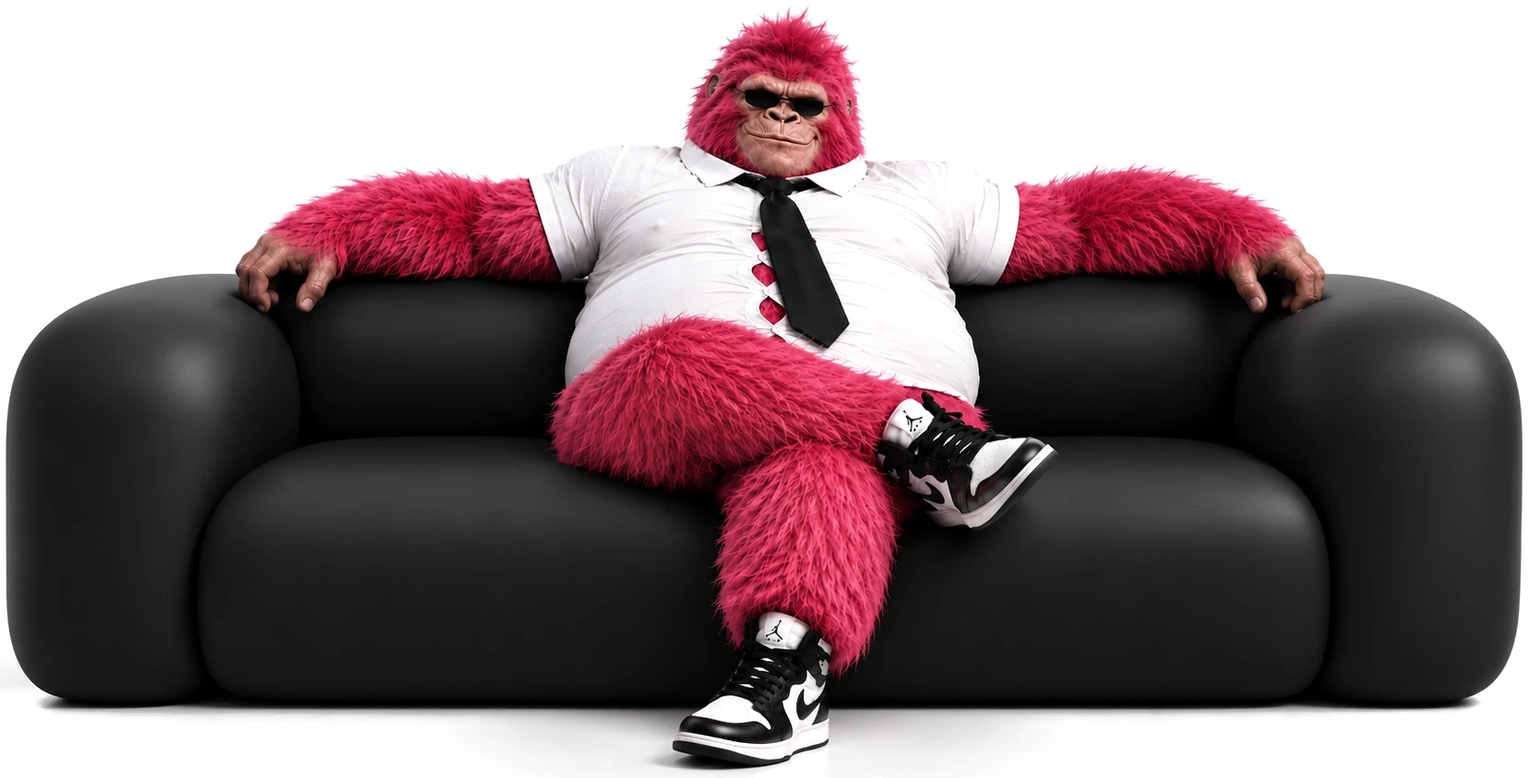
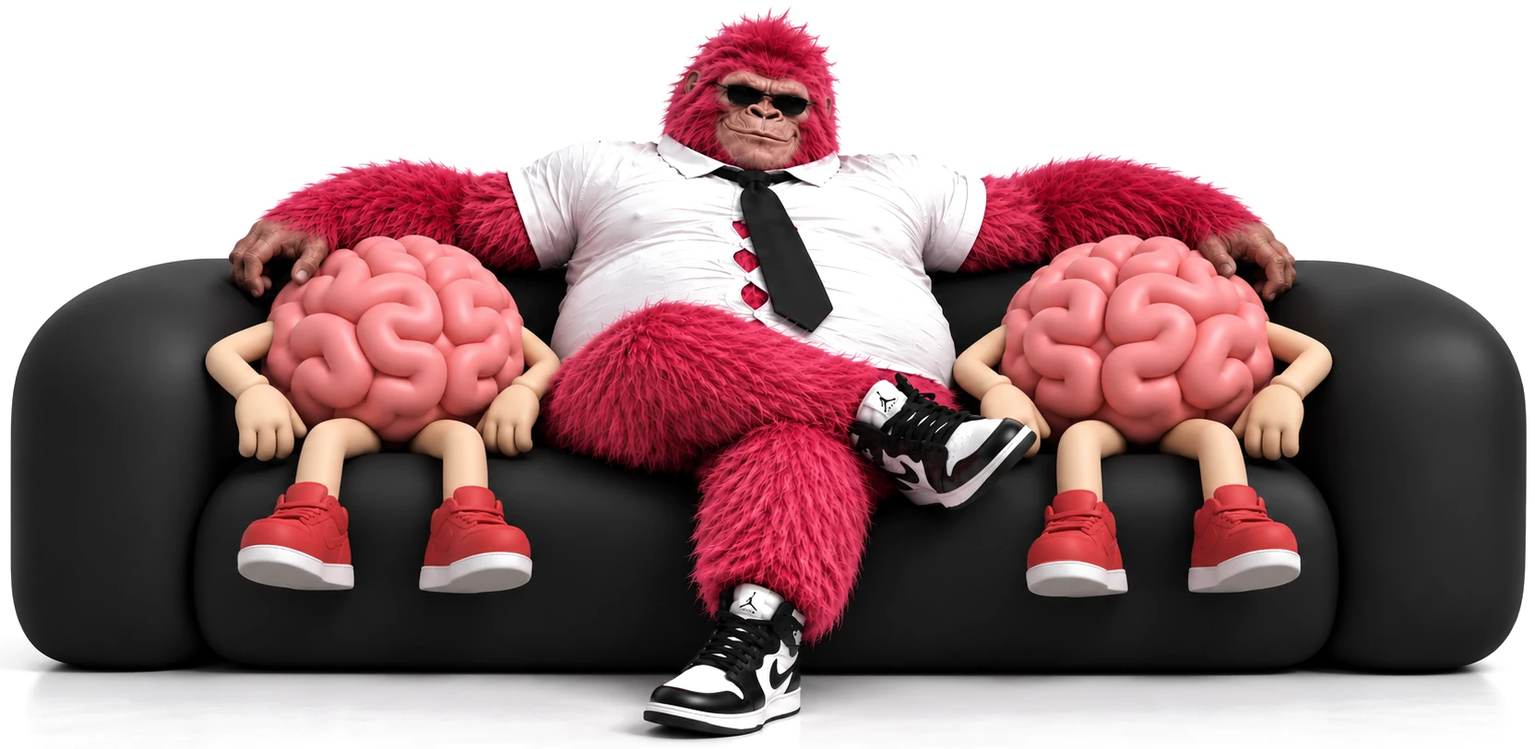
Replace hero gorilla image
Claude-Session: https://claude.ai/code/session_011twCvYJ4NH4k7nHz3phw9g

diff --git a/dist/ta/index.html b/dist/ta/index.html
@@ -120,7 +120,7 @@ a{color:inherit}
 .banner{--gap:var(--m);--colw:calc((100cqw - var(--gap)) / 2);display:grid;grid-template-columns:var(--colw) var(--colw);column-gap:var(--gap);row-gap:var(--gap);align-items:end}
 .word{grid-column:1;grid-row:1;width:100%;aspect-ratio:1001 / 554;background:var(--img-roborab) center / 100% 100% no-repeat}
 html:not([lang=ru]) .word{aspect-ratio:1001 / 512;background-image:var(--img-roborab-en)}
-.sofa{grid-column:2;grid-row:1;width:100%;aspect-ratio:1656 / 844;background:var(--img-sofa) center / 100% 100% no-repeat}
+.sofa{grid-column:2;grid-row:1;width:100%;aspect-ratio:1664 / 812;background:var(--img-sofa) center / 100% 100% no-repeat}
 @supports (text-box:trim-both cap alphabetic){.tb .hero .ht{text-box:trim-both cap alphabetic}@media(max-width:760px),(orientation:portrait) and (max-width:1100px){.tb .hero .ht{text-box:none}.tb .hero .ht .ml{text-box:trim-both cap alphabetic}}}
 @media(max-width:760px),(orientation:portrait) and (max-width:1100px){
   .banner{display:contents;transform:none}
@@ -338,7 +338,7 @@ textarea{min-height:96px;resize:vertical}
     <p class="ht ht2" aria-hidden="true" data-fit="" data-i18n="top" style=""><span class="d"><span class="ml">செயற்கை நுண்ணறிவை</span></span><br><span class="ml">செயல்படுத்துகிறோம்</span></p>
     <div class="banner" style="">
       <div class="word" role="img" aria-label="ROBORAB"></div>
-      <div class="sofa" role="img" aria-label="சட்டையும் டையும் அணிந்த இளஞ்சிவப்பு கொரில்லா கருப்பு தோல் சோபாவில் அமர்ந்திருக்கிறது"></div>
+      <div class="sofa" role="img" aria-label="Розовая горилла в рубашке и галстуке сидит на чёрном диване между двумя мозгами в кроссовках"></div>
     </div>
     <p class="ht" aria-hidden="true" data-fit="" data-i18n="bot" style=""><span class="d"><span class="ml">வணிக செயல்முறைகளில்</span></span></p>
     <a class="down" href="#paths" aria-label="நாங்கள் எப்படி செயல்படுத்துகிறோம், கீழே உருட்டவும்"><span>நாங்கள் எப்படி செயல்படுத்துகிறோம்</span><svg viewBox="0 0 24 24"><path d="m6 9 6 6 6-6"></path></svg></a>

diff --git a/dist/hi/index.html b/dist/hi/index.html
@@ -120,7 +120,7 @@ a{color:inherit}
 .banner{--gap:var(--m);--colw:calc((100cqw - var(--gap)) / 2);display:grid;grid-template-columns:var(--colw) var(--colw);column-gap:var(--gap);row-gap:var(--gap);align-items:end}
 .word{grid-column:1;grid-row:1;width:100%;aspect-ratio:1001 / 554;background:var(--img-roborab) center / 100% 100% no-repeat}
 html:not([lang=ru]) .word{aspect-ratio:1001 / 512;background-image:var(--img-roborab-en)}
-.sofa{grid-column:2;grid-row:1;width:100%;aspect-ratio:1656 / 844;background:var(--img-sofa) center / 100% 100% no-repeat}
+.sofa{grid-column:2;grid-row:1;width:100%;aspect-ratio:1664 / 812;background:var(--img-sofa) center / 100% 100% no-repeat}
 @supports (text-box:trim-both cap alphabetic){.tb .hero .ht{text-box:trim-both cap alphabetic}@media(max-width:760px),(orientation:portrait) and (max-width:1100px){.tb .hero .ht{text-box:none}.tb .hero .ht .ml{text-box:trim-both cap alphabetic}}}
 @media(max-width:760px),(orientation:portrait) and (max-width:1100px){
   .banner{display:contents;transform:none}
@@ -338,7 +338,7 @@ textarea{min-height:96px;resize:vertical}
     <p class="ht ht2" aria-hidden="true" data-fit="" data-i18n="top" style=""><span class="d"><span class="ml">कृत्रिम बुद्धिमत्ता को</span> <span class="ml">आपके व्यावसायिक</span></span><br><span class="ml">कार्यों में लागू करें</span></p>
     <div class="banner" style="">
       <div class="word" role="img" aria-label="ROBORAB"></div>
-      <div class="sofa" role="img" aria-label="काले चमड़े के सोफ़े पर कमीज़ और टाई पहने एक गुलाबी गोरिल्ला बैठा है"></div>
+      <div class="sofa" role="img" aria-label="Розовая горилла в рубашке и галстуке сидит на чёрном диване между двумя мозгами в кроссовках"></div>
     </div>
     <p class="ht" aria-hidden="true" data-fit="" data-i18n="bot" style=""><span class="d"><span class="ml">प्रक्रियाओं में एकीकृत करना</span></span></p>
     <a class="down" href="#paths" aria-label="हम इसे कैसे लागू करते हैं, नीचे स्क्रॉल करें"><span>हम इसे कैसे लागू करते हैं</span><svg viewBox="0 0 24 24"><path d="m6 9 6 6 6-6"></path></svg></a>

diff --git a/dist/th/index.html b/dist/th/index.html
@@ -120,7 +120,7 @@ a{color:inherit}
 .banner{--gap:var(--m);--colw:calc((100cqw - var(--gap)) / 2);display:grid;grid-template-columns:var(--colw) var(--colw);column-gap:var(--gap);row-gap:var(--gap);align-items:end}
 .word{grid-column:1;grid-row:1;width:100%;aspect-ratio:1001 / 554;background:var(--img-roborab) center / 100% 100% no-repeat}
 html:not([lang=ru]) .word{aspect-ratio:1001 / 512;background-image:var(--img-roborab-en)}
-.sofa{grid-column:2;grid-row:1;width:100%;aspect-ratio:1656 / 844;background:var(--img-sofa) center / 100% 100% no-repeat}
+.sofa{grid-column:2;grid-row:1;width:100%;aspect-ratio:1664 / 812;background:var(--img-sofa) center / 100% 100% no-repeat}
 @supports (text-box:trim-both cap alphabetic){.tb .hero .ht{text-box:trim-both cap alphabetic}@media(max-width:760px),(orientation:portrait) and (max-width:1100px){.tb .hero .ht{text-box:none}.tb .hero .ht .ml{text-box:trim-both cap alphabetic}}}
 @media(max-width:760px),(orientation:portrait) and (max-width:1100px){
   .banner{display:contents;transform:none}
@@ -338,7 +338,7 @@ textarea{min-height:96px;resize:vertical}
     <p class="ht ht2" aria-hidden="true" data-fit="" data-i18n="top" style=""><span class="d"><span class="ml">นำปัญญาประดิษฐ์</span> <span class="ml">ไปใช้ใน</span></span><br><span class="ml">กระบวนการทางธุรกิจ</span></p>
     <div class="banner" style="">
       <div class="word" role="img" aria-label="ROBORAB"></div>
-      <div class="sofa" role="img" aria-label="กอริลลาสีชมพูสวมเสื้อเชิ้ตและผูกเนคไทนั่งบนโซฟาหนังสีดำ"></div>
+      <div class="sofa" role="img" aria-label="Розовая горилла в рубашке и галстуке сидит на чёрном диване между двумя мозгами в кроссовках"></div>
     </div>
     <p class="ht" aria-hidden="true" data-fit="" data-i18n="bot" style=""><span class="d"><span class="ml">ของคุณอย่างเป็นระบบ</span></span></p>
     <a class="down" href="#paths" aria-label="เรานำไปใช้อย่างไร เลื่อนลงเพื่อดู"><span>เรานำไปใช้อย่างไร</span><svg viewBox="0 0 24 24"><path d="m6 9 6 6 6-6"></path></svg></a>

diff --git a/dist/bn/index.html b/dist/bn/index.html
@@ -120,7 +120,7 @@ a{color:inherit}
 .banner{--gap:var(--m);--colw:calc((100cqw - var(--gap)) / 2);display:grid;grid-template-columns:var(--colw) var(--colw);column-gap:var(--gap);row-gap:var(--gap);align-items:end}
 .word{grid-column:1;grid-row:1;width:100%;aspect-ratio:1001 / 554;background:var(--img-roborab) center / 100% 100% no-repeat}
 html:not([lang=ru]) .word{aspect-ratio:1001 / 512;background-image:var(--img-roborab-en)}
-.sofa{grid-column:2;grid-row:1;width:100%;aspect-ratio:1656 / 844;background:var(--img-sofa) center / 100% 100% no-repeat}
+.sofa{grid-column:2;grid-row:1;width:100%;aspect-ratio:1664 / 812;background:var(--img-sofa) center / 100% 100% no-repeat}
 @supports (text-box:trim-both cap alphabetic){.tb .hero .ht{text-box:trim-both cap alphabetic}@media(max-width:760px),(orientation:portrait) and (max-width:1100px){.tb .hero .ht{text-box:none}.tb .hero .ht .ml{text-box:trim-both cap alphabetic}}}
 @media(max-width:760px),(orientation:portrait) and (max-width:1100px){
   .banner{display:contents;transform:none}
@@ -338,7 +338,7 @@ textarea{min-height:96px;resize:vertical}
     <p class="ht ht2" aria-hidden="true" data-fit="" data-i18n="top" style=""><span class="d"><span class="ml">কৃত্রিম বুদ্ধিমত্তা</span></span><br><span class="ml">প্রয়োগ করি</span></p>
     <div class="banner" style="">
       <div class="word" role="img" aria-label="ROBORAB"></div>
-      <div class="sofa" role="img" aria-label="শার্ট ও টাই পরা একটি গোলাপি গরিলা কালো চামড়ার সোফায় বসে আছে"></div>
+      <div class="sofa" role="img" aria-label="Розовая горилла в рубашке и галстуке сидит на чёрном диване между двумя мозгами в кроссовках"></div>
     </div>
     <p class="ht" aria-hidden="true" data-fit="" data-i18n="bot" style=""><span class="d"><span class="ml">ব্যবসায়িক প্রক্রিয়ায়</span></span></p>
     <a class="down" href="#paths" aria-label="আমরা কীভাবে প্রয়োগ করি, নিচে স্ক্রল করুন"><span>আমরা কীভাবে প্রয়োগ করি</span><svg viewBox="0 0 24 24"><path d="m6 9 6 6 6-6"></path></svg></a>

diff --git a/dist/mr/index.html b/dist/mr/index.html
@@ -120,7 +120,7 @@ a{color:inherit}
 .banner{--gap:var(--m);--colw:calc((100cqw - var(--gap)) / 2);display:grid;grid-template-columns:var(--colw) var(--colw);column-gap:var(--gap);row-gap:var(--gap);align-items:end}
 .word{grid-column:1;grid-row:1;width:100%;aspect-ratio:1001 / 554;background:var(--img-roborab) center / 100% 100% no-repeat}
 html:not([lang=ru]) .word{aspect-ratio:1001 / 512;background-image:var(--img-roborab-en)}
-.sofa{grid-column:2;grid-row:1;width:100%;aspect-ratio:1656 / 844;background:var(--img-sofa) center / 100% 100% no-repeat}
+.sofa{grid-column:2;grid-row:1;width:100%;aspect-ratio:1664 / 812;background:var(--img-sofa) center / 100% 100% no-repeat}
 @supports (text-box:trim-both cap alphabetic){.tb .hero .ht{text-box:trim-both cap alphabetic}@media(max-width:760px),(orientation:portrait) and (max-width:1100px){.tb .hero .ht{text-box:none}.tb .hero .ht .ml{text-box:trim-both cap alphabetic}}}
 @media(max-width:760px),(orientation:portrait) and (max-width:1100px){
   .banner{display:contents;transform:none}
@@ -338,7 +338,7 @@ textarea{min-height:96px;resize:vertical}
     <p class="ht ht2" aria-hidden="true" data-fit="" data-i18n="top" style=""><span class="d"><span class="ml">कृत्रिम बुद्धिमत्ता</span></span><br><span class="ml">राबवतो</span></p>
     <div class="banner" style="">
       <div class="word" role="img" aria-label="ROBORAB"></div>
-      <div class="sofa" role="img" aria-label="शर्ट आणि टाय घातलेला गुलाबी गोरिला काळ्या चामड्याच्या सोफ्यावर बसला आहे"></div>
+      <div class="sofa" role="img" aria-label="Розовая горилла в рубашке и галстуке сидит на чёрном диване между двумя мозгами в кроссовках"></div>
     </div>
     <p class="ht" aria-hidden="true" data-fit="" data-i18n="bot" style=""><span class="d"><span class="ml">व्यवसाय प्रक्रियांमध्ये</span></span></p>
     <a class="down" href="#paths" aria-label="आम्ही कसे राबवतो, खाली स्क्रोल करा"><span>आम्ही कसे राबवतो</span><svg viewBox="0 0 24 24"><path d="m6 9 6 6 6-6"></path></svg></a>

diff --git a/dist/te/index.html b/dist/te/index.html
@@ -120,7 +120,7 @@ a{color:inherit}
 .banner{--gap:var(--m);--colw:calc((100cqw - var(--gap)) / 2);display:grid;grid-template-columns:var(--colw) var(--colw);column-gap:var(--gap);row-gap:var(--gap);align-items:end}
 .word{grid-column:1;grid-row:1;width:100%;aspect-ratio:1001 / 554;background:var(--img-roborab) center / 100% 100% no-repeat}
 html:not([lang=ru]) .word{aspect-ratio:1001 / 512;background-image:var(--img-roborab-en)}
-.sofa{grid-column:2;grid-row:1;width:100%;aspect-ratio:1656 / 844;background:var(--img-sofa) center / 100% 100% no-repeat}
+.sofa{grid-column:2;grid-row:1;width:100%;aspect-ratio:1664 / 812;background:var(--img-sofa) center / 100% 100% no-repeat}
 @supports (text-box:trim-both cap alphabetic){.tb .hero .ht{text-box:trim-both cap alphabetic}@media(max-width:760px),(orientation:portrait) and (max-width:1100px){.tb .hero .ht{text-box:none}.tb .hero .ht .ml{text-box:trim-both cap alphabetic}}}
 @media(max-width:760px),(orientation:portrait) and (max-width:1100px){
   .banner{display:contents;transform:none}
@@ -338,7 +338,7 @@ textarea{min-height:96px;resize:vertical}
     <p class="ht ht2" aria-hidden="true" data-fit="" data-i18n="top"><span class="d"><span class="ml">కృత్రిమ మేధను</span></span><br><span class="ml">అమలు చేస్తాం</span></p>
     <div class="banner">
       <div class="word" role="img" aria-label="ROBORAB"></div>
-      <div class="sofa" role="img" aria-label="చొక్కా, టై ధరించిన గులాబీ గొరిల్లా నల్ల తోలు సోఫాపై కూర్చుని ఉంది"></div>
+      <div class="sofa" role="img" aria-label="Розовая горилла в рубашке и галстуке сидит на чёрном диване между двумя мозгами в кроссовках"></div>
     </div>
     <p class="ht" aria-hidden="true" data-fit="" data-i18n="bot"><span class="d"><span class="ml">వ్యాపార ప్రక్రియల్లో</span></span></p>
     <a class="down" href="#paths" aria-label="మేము ఎలా అమలు చేస్తాం, కిందికి స్క్రోల్ చేయండి"><span>మేము ఎలా అమలు చేస్తాం</span><svg viewBox="0 0 24 24"><path d="m6 9 6 6 6-6"></path></svg></a>

diff --git a/dist/ka/index.html b/dist/ka/index.html
@@ -120,7 +120,7 @@ a{color:inherit}
 .banner{--gap:var(--m);--colw:calc((100cqw - var(--gap)) / 2);display:grid;grid-template-columns:var(--colw) var(--colw);column-gap:var(--gap);row-gap:var(--gap);align-items:end}
 .word{grid-column:1;grid-row:1;width:100%;aspect-ratio:1001 / 554;background:var(--img-roborab) center / 100% 100% no-repeat}
 html:not([lang=ru]) .word{aspect-ratio:1001 / 512;background-image:var(--img-roborab-en)}
-.sofa{grid-column:2;grid-row:1;width:100%;aspect-ratio:1656 / 844;background:var(--img-sofa) center / 100% 100% no-repeat}
+.sofa{grid-column:2;grid-row:1;width:100%;aspect-ratio:1664 / 812;background:var(--img-sofa) center / 100% 100% no-repeat}
 @supports (text-box:trim-both cap alphabetic){.tb .hero .ht{text-box:trim-both cap alphabetic}@media(max-width:760px),(orientation:portrait) and (max-width:1100px){.tb .hero .ht{text-box:none}.tb .hero .ht .ml{text-box:trim-both cap alphabetic}}}
 @media(max-width:760px),(orientation:portrait) and (max-width:1100px){
   .banner{display:contents;transform:none}
@@ -338,7 +338,7 @@ textarea{min-height:96px;resize:vertical}
     <p class="ht ht2" aria-hidden="true" data-fit="" data-i18n="top" style=""><span class="d"><span class="ml">ხელოვნურ</span> <span class="ml">ინტელექტს</span></span><br><span class="ml">ვნერგავთ</span></p>
     <div class="banner" style="">
       <div class="word" role="img" aria-label="ROBORAB"></div>
-      <div class="sofa" role="img" aria-label="ვარდისფერი გორილა პერანგითა და ჰალსტუხით შავ ტყავის დივანზე ზის"></div>
+      <div class="sofa" role="img" aria-label="Розовая горилла в рубашке и галстуке сидит на чёрном диване между двумя мозгами в кроссовках"></div>
     </div>
     <p class="ht" aria-hidden="true" data-fit="" data-i18n="bot" style=""><span class="d"><span class="ml">ბიზნეს პროცესებში</span></span></p>
     <a class="down" href="#paths" aria-label="როგორ ვნერგავთ, ჩაასქროლეთ ქვემოთ"><span>როგორ ვნერგავთ</span><svg viewBox="0 0 24 24"><path d="m6 9 6 6 6-6"></path></svg></a>

diff --git a/dist/el/index.html b/dist/el/index.html
@@ -120,7 +120,7 @@ a{color:inherit}
 .banner{--gap:var(--m);--colw:calc((100cqw - var(--gap)) / 2);display:grid;grid-template-columns:var(--colw) var(--colw);column-gap:var(--gap);row-gap:var(--gap);align-items:end}
 .word{grid-column:1;grid-row:1;width:100%;aspect-ratio:1001 / 554;background:var(--img-roborab) center / 100% 100% no-repeat}
 html:not([lang=ru]) .word{aspect-ratio:1001 / 512;background-image:var(--img-roborab-en)}
-.sofa{grid-column:2;grid-row:1;width:100%;aspect-ratio:1656 / 844;background:var(--img-sofa) center / 100% 100% no-repeat}
+.sofa{grid-column:2;grid-row:1;width:100%;aspect-ratio:1664 / 812;background:var(--img-sofa) center / 100% 100% no-repeat}
 @supports (text-box:trim-both cap alphabetic){.tb .hero .ht{text-box:trim-both cap alphabetic}@media(max-width:760px),(orientation:portrait) and (max-width:1100px){.tb .hero .ht{text-box:none}.tb .hero .ht .ml{text-box:trim-both cap alphabetic}}}
 @media(max-width:760px),(orientation:portrait) and (max-width:1100px){
   .banner{display:contents;transform:none}
@@ -338,7 +338,7 @@ textarea{min-height:96px;resize:vertical}
     <p class="ht ht2" aria-hidden="true" data-fit="" data-i18n="top" style=""><span class="d"><span class="ml">Εισάγουμε</span> <span class="ml">την τεχνητή</span></span><br><span class="ml">νοημοσύνη</span></p>
     <div class="banner" style="">
       <div class="word" role="img" aria-label="ROBORAB"></div>
-      <div class="sofa" role="img" aria-label="Ένας ροζ γορίλας με πουκάμισο και γραβάτα κάθεται σε έναν μαύρο δερμάτινο καναπέ"></div>
+      <div class="sofa" role="img" aria-label="Розовая горилла в рубашке и галстуке сидит на чёрном диване между двумя мозгами в кроссовках"></div>
     </div>
     <p class="ht" aria-hidden="true" data-fit="" data-i18n="bot" style=""><span class="d"><span class="ml">στις επιχειρηματικές&nbsp;</span><span class="ml pr">διαδικασίες</span></span></p>
     <a class="down" href="#paths" aria-label="Πώς το εφαρμόζουμε, κάντε κύλιση προς τα κάτω"><span>Πώς το εφαρμόζουμε</span><svg viewBox="0 0 24 24"><path d="m6 9 6 6 6-6"></path></svg></a>

diff --git a/dist/ru/index.html b/dist/ru/index.html
@@ -120,7 +120,7 @@ a{color:inherit}
 .banner{--gap:var(--m);--colw:calc((100cqw - var(--gap)) / 2);display:grid;grid-template-columns:var(--colw) var(--colw);column-gap:var(--gap);row-gap:var(--gap);align-items:end}
 .word{grid-column:1;grid-row:1;width:100%;aspect-ratio:1001 / 554;background:var(--img-roborab) center / 100% 100% no-repeat}
 html:not([lang=ru]) .word{aspect-ratio:1001 / 512;background-image:var(--img-roborab-en)}
-.sofa{grid-column:2;grid-row:1;width:100%;aspect-ratio:1656 / 844;background:var(--img-sofa) center / 100% 100% no-repeat}
+.sofa{grid-column:2;grid-row:1;width:100%;aspect-ratio:1664 / 812;background:var(--img-sofa) center / 100% 100% no-repeat}
 @supports (text-box:trim-both cap alphabetic){.tb .hero .ht{text-box:trim-both cap alphabetic}@media(max-width:760px),(orientation:portrait) and (max-width:1100px){.tb .hero .ht{text-box:none}.tb .hero .ht .ml{text-box:trim-both cap alphabetic}}}
 @media(max-width:760px),(orientation:portrait) and (max-width:1100px){
   .banner{display:contents;transform:none}
@@ -338,7 +338,7 @@ textarea{min-height:96px;resize:vertical}
     <p class="ht ht2" aria-hidden="true" data-fit="" data-i18n="top" style=""><span class="d"><span class="ml">Внедрение</span> <span class="ml">искусственного</span></span><br><span class="ml">интеллекта</span></p>
     <div class="banner" style="">
       <div class="word" role="img" aria-label="РОБОРАБ"></div>
-      <div class="sofa" role="img" aria-label="Розовая горилла в рубашке и галстуке сидит на чёрном кожаном диване"></div>
+      <div class="sofa" role="img" aria-label="Розовая горилла в рубашке и галстуке сидит на чёрном диване между двумя мозгами в кроссовках"></div>
     </div>
     <p class="ht" aria-hidden="true" data-fit="" data-i18n="bot" style=""><span class="d"><span class="ml">в бизнес<span class="hy">-</span></span><span class="ml pr">процессы</span></span></p>
     <a class="down" href="#paths" aria-label="Как мы внедряем, листайте вниз"><span>Как мы внедряем</span><svg viewBox="0 0 24 24"><path d="m6 9 6 6 6-6"></path></svg></a>

diff --git a/dist/uk/index.html b/dist/uk/index.html
@@ -120,7 +120,7 @@ a{color:inherit}
 .banner{--gap:var(--m);--colw:calc((100cqw - var(--gap)) / 2);display:grid;grid-template-columns:var(--colw) var(--colw);column-gap:var(--gap);row-gap:var(--gap);align-items:end}
 .word{grid-column:1;grid-row:1;width:100%;aspect-ratio:1001 / 554;background:var(--img-roborab) center / 100% 100% no-repeat}
 html:not([lang=ru]) .word{aspect-ratio:1001 / 512;background-image:var(--img-roborab-en)}
-.sofa{grid-column:2;grid-row:1;width:100%;aspect-ratio:1656 / 844;background:var(--img-sofa) center / 100% 100% no-repeat}
+.sofa{grid-column:2;grid-row:1;width:100%;aspect-ratio:1664 / 812;background:var(--img-sofa) center / 100% 100% no-repeat}
 @supports (text-box:trim-both cap alphabetic){.tb .hero .ht{text-box:trim-both cap alphabetic}@media(max-width:760px),(orientation:portrait) and (max-width:1100px){.tb .hero .ht{text-box:none}.tb .hero .ht .ml{text-box:trim-both cap alphabetic}}}
 @media(max-width:760px),(orientation:portrait) and (max-width:1100px){
   .banner{display:contents;transform:none}
@@ -338,7 +338,7 @@ textarea{min-height:96px;resize:vertical}
     <p class="ht ht2" aria-hidden="true" data-fit="" data-i18n="top" style=""><span class="d"><span class="ml">Впровадження</span> <span class="ml">штучного</span></span><br><span class="ml">інтелекту</span></p>
     <div class="banner" style="">
       <div class="word" role="img" aria-label="РОБОРАБ"></div>
-      <div class="sofa" role="img" aria-label="Рожева горила в сорочці та краватці сидить на чорному шкіряному дивані"></div>
+      <div class="sofa" role="img" aria-label="Розовая горилла в рубашке и галстуке сидит на чёрном диване между двумя мозгами в кроссовках"></div>
     </div>
     <p class="ht" aria-hidden="true" data-fit="" data-i18n="bot" style=""><span class="d"><span class="ml">в бізнес-</span><span class="ml pr">процеси</span></span></p>
     <a class="down" href="#paths" aria-label="Як ми впроваджуємо, гортайте вниз"><span>Як ми впроваджуємо</span><svg viewBox="0 0 24 24"><path d="m6 9 6 6 6-6"></path></svg></a>

diff --git a/src/index.src.html b/src/index.src.html
@@ -89,7 +89,7 @@ a{color:inherit}
 .banner{--gap:var(--m);--colw:calc((100cqw - var(--gap)) / 2);display:grid;grid-template-columns:var(--colw) var(--colw);column-gap:var(--gap);row-gap:var(--gap);align-items:end}
 .word{grid-column:1;grid-row:1;width:100%;aspect-ratio:1001 / 554;background:var(--img-roborab) center / 100% 100% no-repeat}
 html:not([lang=ru]) .word{aspect-ratio:1001 / 512;background-image:var(--img-roborab-en)}
-.sofa{grid-column:2;grid-row:1;width:100%;aspect-ratio:1656 / 844;background:var(--img-sofa) center / 100% 100% no-repeat}
+.sofa{grid-column:2;grid-row:1;width:100%;aspect-ratio:1664 / 812;background:var(--img-sofa) center / 100% 100% no-repeat}
 @supports (text-box:trim-both cap alphabetic){.tb .hero .ht{text-box:trim-both cap alphabetic}@media(max-width:760px),(orientation:portrait) and (max-width:1100px){.tb .hero .ht{text-box:none}.tb .hero .ht .ml{text-box:trim-both cap alphabetic}}}
 @media(max-width:760px),(orientation:portrait) and (max-width:1100px){
   .banner{display:contents;transform:none}
@@ -307,7 +307,7 @@ textarea{min-height:96px;resize:vertical}
     <p class="ht ht2" aria-hidden="true" data-fit data-i18n="top"><span class="d"><span class="ml">Внедрение</span> <span class="ml">искусственного</span></span><br><span class="ml">интеллекта</span></p>
     <div class="banner">
       <div class="word" role="img" aria-label="РОБОРАБ"></div>
-      <div class="sofa" role="img" aria-label="Розовая горилла в рубашке и галстуке сидит на чёрном кожаном диване"></div>
+      <div class="sofa" role="img" aria-label="Розовая горилла в рубашке и галстуке сидит на чёрном диване между двумя мозгами в кроссовках"></div>
     </div>
     <p class="ht" aria-hidden="true" data-fit data-i18n="bot"><span class="d"><span class="ml">в бизнес<span class="hy">-</span></span><span class="ml pr">процессы</span></span></p>
     <a class="down" href="#paths" aria-label="Как мы внедряем, листайте вниз"><span>Как мы внедряем</span><svg viewBox="0 0 24 24"><path d="m6 9 6 6 6-6"/></svg></a>

diff --git a/dist/kk/index.html b/dist/kk/index.html
@@ -120,7 +120,7 @@ a{color:inherit}
 .banner{--gap:var(--m);--colw:calc((100cqw - var(--gap)) / 2);display:grid;grid-template-columns:var(--colw) var(--colw);column-gap:var(--gap);row-gap:var(--gap);align-items:end}
 .word{grid-column:1;grid-row:1;width:100%;aspect-ratio:1001 / 554;background:var(--img-roborab) center / 100% 100% no-repeat}
 html:not([lang=ru]) .word{aspect-ratio:1001 / 512;background-image:var(--img-roborab-en)}
-.sofa{grid-column:2;grid-row:1;width:100%;aspect-ratio:1656 / 844;background:var(--img-sofa) center / 100% 100% no-repeat}
+.sofa{grid-column:2;grid-row:1;width:100%;aspect-ratio:1664 / 812;background:var(--img-sofa) center / 100% 100% no-repeat}
 @supports (text-box:trim-both cap alphabetic){.tb .hero .ht{text-box:trim-both cap alphabetic}@media(max-width:760px),(orientation:portrait) and (max-width:1100px){.tb .hero .ht{text-box:none}.tb .hero .ht .ml{text-box:trim-both cap alphabetic}}}
 @media(max-width:760px),(orientation:portrait) and (max-width:1100px){
   .banner{display:contents;transform:none}
@@ -338,7 +338,7 @@ textarea{min-height:96px;resize:vertical}
     <p class="ht ht2" aria-hidden="true" data-fit="" data-i18n="top"><span class="d"><span class="ml">Жасанды</span> <span class="ml">интеллектті</span></span><br><span class="ml">енгіземіз</span></p>
     <div class="banner">
       <div class="word" role="img" aria-label="РОБОРАБ"></div>
-      <div class="sofa" role="img" aria-label="Қара былғары диванда көйлек пен галстук киген қызғылт горилла отыр"></div>
+      <div class="sofa" role="img" aria-label="Розовая горилла в рубашке и галстуке сидит на чёрном диване между двумя мозгами в кроссовках"></div>
     </div>
     <p class="ht" aria-hidden="true" data-fit="" data-i18n="bot"><span class="d"><span class="ml">бизнес-</span><span class="ml pr">үдерістерге</span></span></p>
     <a class="down" href="#paths" aria-label="Қалай енгіземіз, төмен айналдырыңыз"><span>Қалай енгіземіз</span><svg viewBox="0 0 24 24"><path d="m6 9 6 6 6-6"></path></svg></a>
